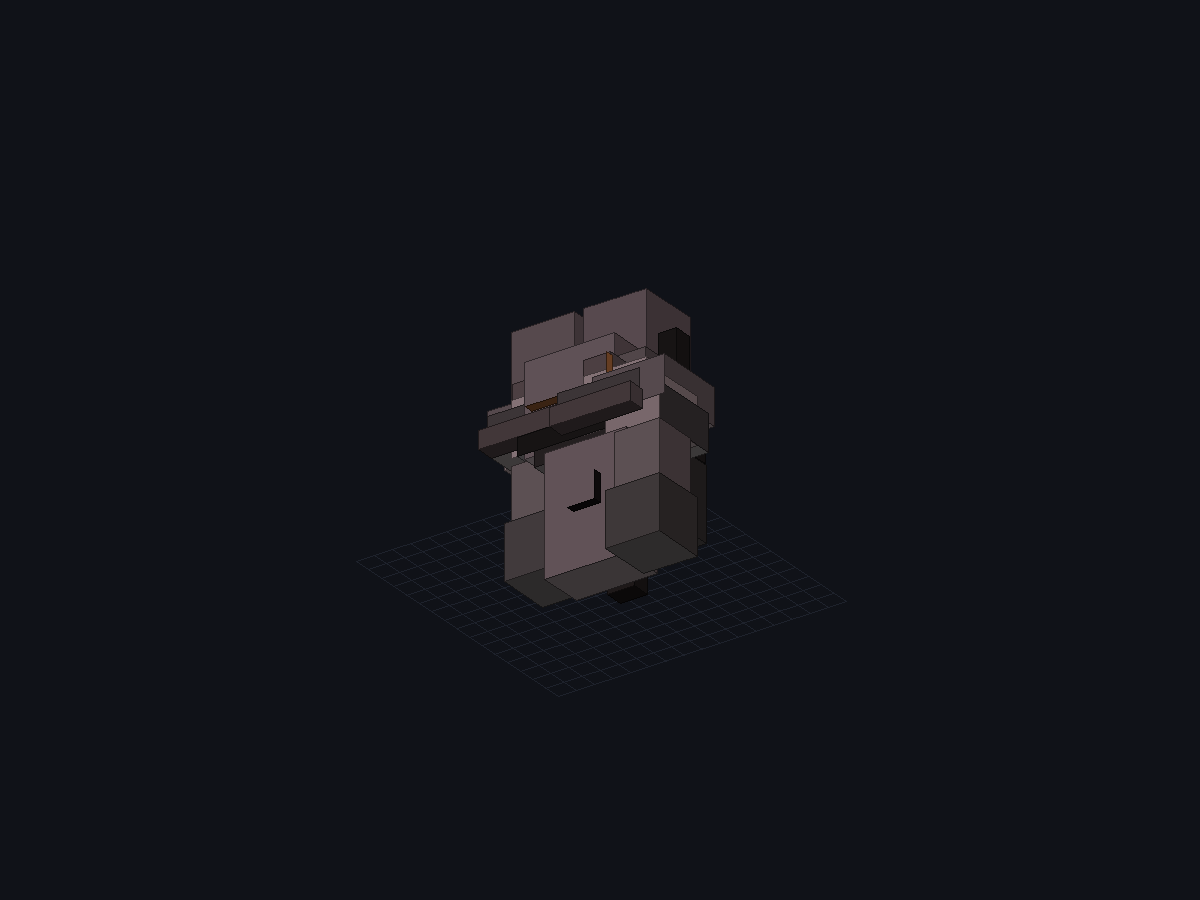
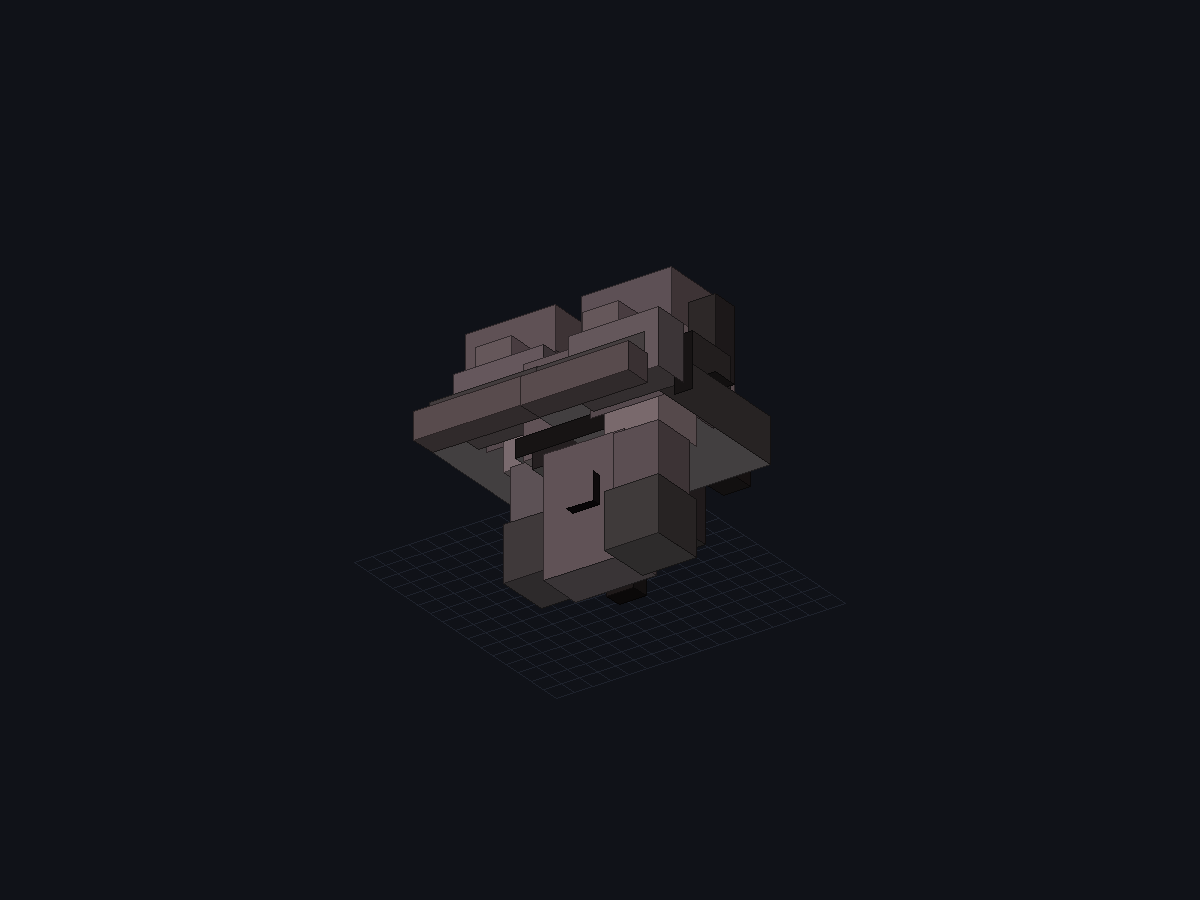
COLOSSAL legs v3: 10px thighs/shins, 12x5x20px boots (1.25 block feet), side thrusters, ankle guards; CI scale-comparison shot

Changed region(s): [[0.3392, 0.28, 0.6475, 0.56], [0.4933, 0.5911, 0.5242, 0.6222], [0.4933, 0.5289, 0.5242, 0.56]]

diff --git a/src/main/java/com/octoarms/client/model/ArmorSpecs.java b/src/main/java/com/octoarms/client/model/ArmorSpecs.java
@@ -69,24 +69,24 @@ public final class ArmorSpecs {
             new Box("left_arm", 48, 22, 6F, 5F, 6F, -2.4F, -2.8F, -3.0F),
             new Box("left_arm", 74, 22, 5F, 7F, 5F, -1.8F, 1.6F, -2.5F),
             new Box("left_arm", 96, 22, 6F, 6F, 6F, -2.4F, 7.6F, -3.0F),
-            new Box("right_leg", 122, 22, 7F, 8F, 7F, -5.6F, -1.5F, -3.5F),
-            new Box("left_leg", 152, 22, 7F, 8F, 7F, -1.4F, -1.5F, -3.5F),
-            new Box("right_leg", 182, 22, 3F, 3F, 3F, -4.5F, 4.8F, -5.0F),
-            new Box("left_leg", 196, 22, 3F, 3F, 3F, -0.4F, 4.8F, -5.0F),
-            new Box("right_leg", 210, 22, 7F, 6F, 7F, -5.6F, 5.5F, -3.5F),
-            new Box("left_leg", 0, 39, 7F, 6F, 7F, -1.4F, 5.5F, -3.5F),
-            new Box("right_leg", 30, 39, 1F, 4F, 4F, -6.4F, 6.0F, -2.0F),
-            new Box("left_leg", 42, 39, 1F, 4F, 4F, 5.4F, 6.0F, -2.0F),
-            new Box("right_leg", 54, 39, 9F, 4F, 11F, -6.5F, 8.0F, -6.0F),
-            new Box("left_leg", 96, 39, 9F, 4F, 11F, -2.5F, 8.0F, -6.0F),
-            new Box("right_leg", 138, 39, 9F, 2F, 2F, -6.5F, 10.0F, -7.4F),
-            new Box("left_leg", 162, 39, 9F, 2F, 2F, -2.5F, 10.0F, -7.4F),
-            new Box("right_leg", 186, 39, 2F, 2F, 2F, -5.0F, 10.0F, 4.6F),
-            new Box("left_leg", 196, 39, 2F, 2F, 2F, 3.0F, 10.0F, 4.6F),
-            new Box("head", 206, 39, 1F, 4F, 1F, -6.4F, -12.0F, 1.0F),
-            new Box("head", 212, 39, 1F, 1F, 1F, -6.4F, -12.6F, 1.0F),
-            new Box("body", 218, 39, 2F, 2F, 3F, -5.6F, 3.0F, -3.6F),
-            new Box("body", 230, 39, 2F, 2F, 3F, 3.6F, 3.0F, -3.6F)
+            new Box("right_leg", 122, 22, 10F, 10F, 10F, -9.5F, -2.0F, -5.0F),
+            new Box("left_leg", 164, 22, 10F, 10F, 10F, -0.5F, -2.0F, -5.0F),
+            new Box("right_leg", 206, 22, 4F, 4F, 4F, -7.0F, 1.0F, -7.0F),
+            new Box("left_leg", 224, 22, 4F, 4F, 4F, 1.1F, 1.0F, -7.0F),
+            new Box("right_leg", 0, 44, 10F, 6F, 10F, -9.5F, 3.0F, -5.0F),
+            new Box("left_leg", 42, 44, 10F, 6F, 10F, -0.5F, 3.0F, -5.0F),
+            new Box("right_leg", 84, 44, 2F, 6F, 6F, -10.5F, 4.0F, -3.0F),
+            new Box("left_leg", 102, 44, 2F, 6F, 6F, 8.5F, 4.0F, -3.0F),
+            new Box("right_leg", 120, 44, 12F, 5F, 20F, -10.0F, 7.0F, -10.0F),
+            new Box("left_leg", 186, 44, 12F, 5F, 20F, -2.0F, 7.0F, -10.0F),
+            new Box("right_leg", 0, 71, 12F, 3F, 3F, -10.0F, 9.0F, -12.5F),
+            new Box("left_leg", 32, 71, 12F, 3F, 3F, -2.0F, 9.0F, -12.5F),
+            new Box("right_leg", 64, 71, 3F, 3F, 3F, -8.0F, 9.0F, 9.5F),
+            new Box("left_leg", 78, 71, 3F, 3F, 3F, 3.1F, 9.0F, 9.5F),
+            new Box("head", 92, 71, 1F, 4F, 1F, -6.4F, -12.0F, 1.0F),
+            new Box("head", 98, 71, 1F, 1F, 1F, -6.4F, -12.6F, 1.0F),
+            new Box("body", 104, 71, 2F, 2F, 3F, -5.6F, 3.0F, -3.6F),
+            new Box("body", 116, 71, 2F, 2F, 3F, 3.6F, 3.0F, -3.6F)
         });
         SUITS.put("iron_mech", new Box[]{
             new Box("hat", 0, 0, 0F, 0F, 0F, 0.0F, 0.0F, 0.0F),
@@ -104,25 +104,25 @@ public final class ArmorSpecs {
             new Box("left_arm", 48, 22, 6F, 5F, 6F, -2.4F, -2.8F, -3.0F),
             new Box("left_arm", 74, 22, 5F, 7F, 5F, -1.8F, 1.6F, -2.5F),
             new Box("left_arm", 96, 22, 6F, 6F, 6F, -2.4F, 7.6F, -3.0F),
-            new Box("right_leg", 122, 22, 7F, 8F, 7F, -5.6F, -1.5F, -3.5F),
-            new Box("left_leg", 152, 22, 7F, 8F, 7F, -1.4F, -1.5F, -3.5F),
-            new Box("right_leg", 182, 22, 3F, 3F, 3F, -4.5F, 4.8F, -5.0F),
-            new Box("left_leg", 196, 22, 3F, 3F, 3F, -0.4F, 4.8F, -5.0F),
-            new Box("right_leg", 210, 22, 7F, 6F, 7F, -5.6F, 5.5F, -3.5F),
-            new Box("left_leg", 0, 39, 7F, 6F, 7F, -1.4F, 5.5F, -3.5F),
-            new Box("right_leg", 30, 39, 1F, 4F, 4F, -6.4F, 6.0F, -2.0F),
-            new Box("left_leg", 42, 39, 1F, 4F, 4F, 5.4F, 6.0F, -2.0F),
-            new Box("right_leg", 54, 39, 9F, 4F, 11F, -6.5F, 8.0F, -6.0F),
-            new Box("left_leg", 96, 39, 9F, 4F, 11F, -2.5F, 8.0F, -6.0F),
-            new Box("right_leg", 138, 39, 9F, 2F, 2F, -6.5F, 10.0F, -7.4F),
-            new Box("left_leg", 162, 39, 9F, 2F, 2F, -2.5F, 10.0F, -7.4F),
-            new Box("right_leg", 186, 39, 2F, 2F, 2F, -5.0F, 10.0F, 4.6F),
-            new Box("left_leg", 196, 39, 2F, 2F, 2F, 3.0F, 10.0F, 4.6F),
-            new Box("right_arm", 206, 39, 7F, 3F, 7F, -4.2F, -3.4F, -3.5F),
-            new Box("left_arm", 0, 56, 7F, 3F, 7F, -2.8F, -3.4F, -3.5F),
-            new Box("body", 30, 56, 9F, 2F, 2F, -4.5F, 6.4F, -3.4F),
-            new Box("body", 54, 56, 4F, 6F, 3F, -6.6F, 1.0F, 2.8F),
-            new Box("body", 70, 56, 4F, 6F, 3F, 2.6F, 1.0F, 2.8F)
+            new Box("right_leg", 122, 22, 10F, 10F, 10F, -9.5F, -2.0F, -5.0F),
+            new Box("left_leg", 164, 22, 10F, 10F, 10F, -0.5F, -2.0F, -5.0F),
+            new Box("right_leg", 206, 22, 4F, 4F, 4F, -7.0F, 1.0F, -7.0F),
+            new Box("left_leg", 224, 22, 4F, 4F, 4F, 1.1F, 1.0F, -7.0F),
+            new Box("right_leg", 0, 44, 10F, 6F, 10F, -9.5F, 3.0F, -5.0F),
+            new Box("left_leg", 42, 44, 10F, 6F, 10F, -0.5F, 3.0F, -5.0F),
+            new Box("right_leg", 84, 44, 2F, 6F, 6F, -10.5F, 4.0F, -3.0F),
+            new Box("left_leg", 102, 44, 2F, 6F, 6F, 8.5F, 4.0F, -3.0F),
+            new Box("right_leg", 120, 44, 12F, 5F, 20F, -10.0F, 7.0F, -10.0F),
+            new Box("left_leg", 186, 44, 12F, 5F, 20F, -2.0F, 7.0F, -10.0F),
+            new Box("right_leg", 0, 71, 12F, 3F, 3F, -10.0F, 9.0F, -12.5F),
+            new Box("left_leg", 32, 71, 12F, 3F, 3F, -2.0F, 9.0F, -12.5F),
+            new Box("right_leg", 64, 71, 3F, 3F, 3F, -8.0F, 9.0F, 9.5F),
+            new Box("left_leg", 78, 71, 3F, 3F, 3F, 3.1F, 9.0F, 9.5F),
+            new Box("right_arm", 92, 71, 7F, 3F, 7F, -4.2F, -3.4F, -3.5F),
+            new Box("left_arm", 122, 71, 7F, 3F, 7F, -2.8F, -3.4F, -3.5F),
+            new Box("body", 152, 71, 9F, 2F, 2F, -4.5F, 6.4F, -3.4F),
+            new Box("body", 176, 71, 4F, 6F, 3F, -6.6F, 1.0F, 2.8F),
+            new Box("body", 192, 71, 4F, 6F, 3F, 2.6F, 1.0F, 2.8F)
         });
         SUITS.put("gold_mech", new Box[]{
             new Box("hat", 0, 0, 0F, 0F, 0F, 0.0F, 0.0F, 0.0F),
@@ -140,25 +140,25 @@ public final class ArmorSpecs {
             new Box("left_arm", 48, 22, 6F, 5F, 6F, -2.4F, -2.8F, -3.0F),
             new Box("left_arm", 74, 22, 5F, 7F, 5F, -1.8F, 1.6F, -2.5F),
             new Box("left_arm", 96, 22, 6F, 6F, 6F, -2.4F, 7.6F, -3.0F),
-            new Box("right_leg", 122, 22, 7F, 8F, 7F, -5.6F, -1.5F, -3.5F),
-            new Box("left_leg", 152, 22, 7F, 8F, 7F, -1.4F, -1.5F, -3.5F),
-            new Box("right_leg", 182, 22, 3F, 3F, 3F, -4.5F, 4.8F, -5.0F),
-            new Box("left_leg", 196, 22, 3F, 3F, 3F, -0.4F, 4.8F, -5.0F),
-            new Box("right_leg", 210, 22, 7F, 6F, 7F, -5.6F, 5.5F, -3.5F),
-            new Box("left_leg", 0, 39, 7F, 6F, 7F, -1.4F, 5.5F, -3.5F),
-            new Box("right_leg", 30, 39, 1F, 4F, 4F, -6.4F, 6.0F, -2.0F),
-            new Box("left_leg", 42, 39, 1F, 4F, 4F, 5.4F, 6.0F, -2.0F),
-            new Box("right_leg", 54, 39, 9F, 4F, 11F, -6.5F, 8.0F, -6.0F),
-            new Box("left_leg", 96, 39, 9F, 4F, 11F, -2.5F, 8.0F, -6.0F),
-            new Box("right_leg", 138, 39, 9F, 2F, 2F, -6.5F, 10.0F, -7.4F),
-            new Box("left_leg", 162, 39, 9F, 2F, 2F, -2.5F, 10.0F, -7.4F),
-            new Box("right_leg", 186, 39, 2F, 2F, 2F, -5.0F, 10.0F, 4.6F),
-            new Box("left_leg", 196, 39, 2F, 2F, 2F, 3.0F, 10.0F, 4.6F),
-            new Box("head", 206, 39, 2F, 4F, 8F, -1.0F, -12.4F, -3.0F),
-            new Box("head", 228, 39, 2F, 1F, 8F, -1.0F, -13.0F, -3.0F),
-            new Box("body", 0, 56, 11F, 4F, 6F, -5.5F, 9.0F, -3.0F),
-            new Box("right_arm", 36, 56, 2F, 6F, 2F, -4.4F, 2.0F, -3.4F),
-            new Box("left_arm", 46, 56, 2F, 6F, 2F, 2.4F, 2.0F, -3.4F)
+            new Box("right_leg", 122, 22, 10F, 10F, 10F, -9.5F, -2.0F, -5.0F),
+            new Box("left_leg", 164, 22, 10F, 10F, 10F, -0.5F, -2.0F, -5.0F),
+            new Box("right_leg", 206, 22, 4F, 4F, 4F, -7.0F, 1.0F, -7.0F),
+            new Box("left_leg", 224, 22, 4F, 4F, 4F, 1.1F, 1.0F, -7.0F),
+            new Box("right_leg", 0, 44, 10F, 6F, 10F, -9.5F, 3.0F, -5.0F),
+            new Box("left_leg", 42, 44, 10F, 6F, 10F, -0.5F, 3.0F, -5.0F),
+            new Box("right_leg", 84, 44, 2F, 6F, 6F, -10.5F, 4.0F, -3.0F),
+            new Box("left_leg", 102, 44, 2F, 6F, 6F, 8.5F, 4.0F, -3.0F),
+            new Box("right_leg", 120, 44, 12F, 5F, 20F, -10.0F, 7.0F, -10.0F),
+            new Box("left_leg", 186, 44, 12F, 5F, 20F, -2.0F, 7.0F, -10.0F),
+            new Box("right_leg", 0, 71, 12F, 3F, 3F, -10.0F, 9.0F, -12.5F),
+            new Box("left_leg", 32, 71, 12F, 3F, 3F, -2.0F, 9.0F, -12.5F),
+            new Box("right_leg", 64, 71, 3F, 3F, 3F, -8.0F, 9.0F, 9.5F),
+            new Box("left_leg", 78, 71, 3F, 3F, 3F, 3.1F, 9.0F, 9.5F),
+            new Box("head", 92, 71, 2F, 4F, 8F, -1.0F, -12.4F, -3.0F),
+            new Box("head", 114, 71, 2F, 1F, 8F, -1.0F, -13.0F, -3.0F),
+            new Box("body", 136, 71, 11F, 4F, 6F, -5.5F, 9.0F, -3.0F),
+            new Box("right_arm", 172, 71, 2F, 6F, 2F, -4.4F, 2.0F, -3.4F),
+            new Box("left_arm", 182, 71, 2F, 6F, 2F, 2.4F, 2.0F, -3.4F)
         });
         SUITS.put("diamond_mech", new Box[]{
             new Box("hat", 0, 0, 0F, 0F, 0F, 0.0F, 0.0F, 0.0F),
@@ -176,25 +176,25 @@ public final class ArmorSpecs {
             new Box("left_arm", 48, 22, 6F, 5F, 6F, -2.4F, -2.8F, -3.0F),
             new Box("left_arm", 74, 22, 5F, 7F, 5F, -1.8F, 1.6F, -2.5F),
             new Box("left_arm", 96, 22, 6F, 6F, 6F, -2.4F, 7.6F, -3.0F),
-            new Box("right_leg", 122, 22, 7F, 8F, 7F, -5.6F, -1.5F, -3.5F),
-            new Box("left_leg", 152, 22, 7F, 8F, 7F, -1.4F, -1.5F, -3.5F),
-            new Box("right_leg", 182, 22, 3F, 3F, 3F, -4.5F, 4.8F, -5.0F),
-            new Box("left_leg", 196, 22, 3F, 3F, 3F, -0.4F, 4.8F, -5.0F),
-            new Box("right_leg", 210, 22, 7F, 6F, 7F, -5.6F, 5.5F, -3.5F),
-            new Box("left_leg", 0, 39, 7F, 6F, 7F, -1.4F, 5.5F, -3.5F),
-            new Box("right_leg", 30, 39, 1F, 4F, 4F, -6.4F, 6.0F, -2.0F),
-            new Box("left_leg", 42, 39, 1F, 4F, 4F, 5.4F, 6.0F, -2.0F),
-            new Box("right_leg", 54, 39, 9F, 4F, 11F, -6.5F, 8.0F, -6.0F),
-            new Box("left_leg", 96, 39, 9F, 4F, 11F, -2.5F, 8.0F, -6.0F),
-            new Box("right_leg", 138, 39, 9F, 2F, 2F, -6.5F, 10.0F, -7.4F),
-            new Box("left_leg", 162, 39, 9F, 2F, 2F, -2.5F, 10.0F, -7.4F),
-            new Box("right_leg", 186, 39, 2F, 2F, 2F, -5.0F, 10.0F, 4.6F),
-            new Box("left_leg", 196, 39, 2F, 2F, 2F, 3.0F, 10.0F, 4.6F),
-            new Box("body", 206, 39, 2F, 9F, 5F, -7.2F, -1.0F, 2.6F),
-            new Box("body", 222, 39, 2F, 9F, 5F, 5.2F, -1.0F, 2.6F),
-            new Box("body", 238, 39, 3F, 3F, 3F, -5.4F, 7.0F, 3.4F),
-            new Box("body", 0, 56, 3F, 3F, 3F, 2.4F, 7.0F, 3.4F),
-            new Box("head", 14, 56, 10F, 1F, 2F, -5.0F, -9.6F, -1.0F)
+            new Box("right_leg", 122, 22, 10F, 10F, 10F, -9.5F, -2.0F, -5.0F),
+            new Box("left_leg", 164, 22, 10F, 10F, 10F, -0.5F, -2.0F, -5.0F),
+            new Box("right_leg", 206, 22, 4F, 4F, 4F, -7.0F, 1.0F, -7.0F),
+            new Box("left_leg", 224, 22, 4F, 4F, 4F, 1.1F, 1.0F, -7.0F),
+            new Box("right_leg", 0, 44, 10F, 6F, 10F, -9.5F, 3.0F, -5.0F),
+            new Box("left_leg", 42, 44, 10F, 6F, 10F, -0.5F, 3.0F, -5.0F),
+            new Box("right_leg", 84, 44, 2F, 6F, 6F, -10.5F, 4.0F, -3.0F),
+            new Box("left_leg", 102, 44, 2F, 6F, 6F, 8.5F, 4.0F, -3.0F),
+            new Box("right_leg", 120, 44, 12F, 5F, 20F, -10.0F, 7.0F, -10.0F),
+            new Box("left_leg", 186, 44, 12F, 5F, 20F, -2.0F, 7.0F, -10.0F),
+            new Box("right_leg", 0, 71, 12F, 3F, 3F, -10.0F, 9.0F, -12.5F),
+            new Box("left_leg", 32, 71, 12F, 3F, 3F, -2.0F, 9.0F, -12.5F),
+            new Box("right_leg", 64, 71, 3F, 3F, 3F, -8.0F, 9.0F, 9.5F),
+            new Box("left_leg", 78, 71, 3F, 3F, 3F, 3.1F, 9.0F, 9.5F),
+            new Box("body", 92, 71, 2F, 9F, 5F, -7.2F, -1.0F, 2.6F),
+            new Box("body", 108, 71, 2F, 9F, 5F, 5.2F, -1.0F, 2.6F),
+            new Box("body", 124, 71, 3F, 3F, 3F, -5.4F, 7.0F, 3.4F),
+            new Box("body", 138, 71, 3F, 3F, 3F, 2.4F, 7.0F, 3.4F),
+            new Box("head", 152, 71, 10F, 1F, 2F, -5.0F, -9.6F, -1.0F)
         });
         SUITS.put("netherite_mech", new Box[]{
             new Box("hat", 0, 0, 0F, 0F, 0F, 0.0F, 0.0F, 0.0F),
@@ -212,32 +212,32 @@ public final class ArmorSpecs {
             new Box("left_arm", 48, 22, 6F, 5F, 6F, -2.4F, -2.8F, -3.0F),
             new Box("left_arm", 74, 22, 5F, 7F, 5F, -1.8F, 1.6F, -2.5F),
             new Box("left_arm", 96, 22, 6F, 6F, 6F, -2.4F, 7.6F, -3.0F),
-            new Box("right_leg", 122, 22, 7F, 8F, 7F, -5.6F, -1.5F, -3.5F),
-            new Box("left_leg", 152, 22, 7F, 8F, 7F, -1.4F, -1.5F, -3.5F),
-            new Box("right_leg", 182, 22, 3F, 3F, 3F, -4.5F, 4.8F, -5.0F),
-            new Box("left_leg", 196, 22, 3F, 3F, 3F, -0.4F, 4.8F, -5.0F),
-            new Box("right_leg", 210, 22, 7F, 6F, 7F, -5.6F, 5.5F, -3.5F),
-            new Box("left_leg", 0, 39, 7F, 6F, 7F, -1.4F, 5.5F, -3.5F),
-            new Box("right_leg", 30, 39, 1F, 4F, 4F, -6.4F, 6.0F, -2.0F),
-            new Box("left_leg", 42, 39, 1F, 4F, 4F, 5.4F, 6.0F, -2.0F),
-            new Box("right_leg", 54, 39, 9F, 4F, 11F, -6.5F, 8.0F, -6.0F),
-            new Box("left_leg", 96, 39, 9F, 4F, 11F, -2.5F, 8.0F, -6.0F),
-            new Box("right_leg", 138, 39, 9F, 2F, 2F, -6.5F, 10.0F, -7.4F),
-            new Box("left_leg", 162, 39, 9F, 2F, 2F, -2.5F, 10.0F, -7.4F),
-            new Box("right_leg", 186, 39, 2F, 2F, 2F, -5.0F, 10.0F, 4.6F),
-            new Box("left_leg", 196, 39, 2F, 2F, 2F, 3.0F, 10.0F, 4.6F),
-            new Box("head", 206, 39, 2F, 4F, 2F, -5.6F, -11.4F, -3.0F),
-            new Box("head", 216, 39, 2F, 4F, 2F, 3.6F, -11.4F, -3.0F),
-            new Box("right_arm", 0, 56, 8F, 4F, 8F, -4.8F, -3.8F, -4.0F),
-            new Box("left_arm", 34, 56, 8F, 4F, 8F, -3.2F, -3.8F, -4.0F),
-            new Box("body", 68, 56, 4F, 8F, 4F, -6.8F, 0.0F, 3.0F),
-            new Box("body", 86, 56, 4F, 8F, 4F, 2.8F, 0.0F, 3.0F),
-            new Box("body", 104, 56, 3F, 2F, 3F, -6.2F, -2.4F, 3.0F),
-            new Box("body", 118, 56, 3F, 2F, 3F, 3.2F, -2.4F, 3.0F),
-            new Box("right_leg", 132, 56, 6F, 4F, 6F, -5.4F, 4.4F, -3.4F),
-            new Box("left_leg", 158, 56, 6F, 4F, 6F, -0.6F, 4.4F, -3.4F),
-            new Box("right_leg", 184, 56, 2F, 6F, 2F, -7.2F, 2.0F, -1.0F),
-            new Box("left_leg", 194, 56, 2F, 6F, 2F, 5.2F, 2.0F, -1.0F)
+            new Box("right_leg", 122, 22, 10F, 10F, 10F, -9.5F, -2.0F, -5.0F),
+            new Box("left_leg", 164, 22, 10F, 10F, 10F, -0.5F, -2.0F, -5.0F),
+            new Box("right_leg", 206, 22, 4F, 4F, 4F, -7.0F, 1.0F, -7.0F),
+            new Box("left_leg", 224, 22, 4F, 4F, 4F, 1.1F, 1.0F, -7.0F),
+            new Box("right_leg", 0, 44, 10F, 6F, 10F, -9.5F, 3.0F, -5.0F),
+            new Box("left_leg", 42, 44, 10F, 6F, 10F, -0.5F, 3.0F, -5.0F),
+            new Box("right_leg", 84, 44, 2F, 6F, 6F, -10.5F, 4.0F, -3.0F),
+            new Box("left_leg", 102, 44, 2F, 6F, 6F, 8.5F, 4.0F, -3.0F),
+            new Box("right_leg", 120, 44, 12F, 5F, 20F, -10.0F, 7.0F, -10.0F),
+            new Box("left_leg", 186, 44, 12F, 5F, 20F, -2.0F, 7.0F, -10.0F),
+            new Box("right_leg", 0, 71, 12F, 3F, 3F, -10.0F, 9.0F, -12.5F),
+            new Box("left_leg", 32, 71, 12F, 3F, 3F, -2.0F, 9.0F, -12.5F),
+            new Box("right_leg", 64, 71, 3F, 3F, 3F, -8.0F, 9.0F, 9.5F),
+            new Box("left_leg", 78, 71, 3F, 3F, 3F, 3.1F, 9.0F, 9.5F),
+            new Box("head", 92, 71, 2F, 4F, 2F, -5.6F, -11.4F, -3.0F),
+            new Box("head", 102, 71, 2F, 4F, 2F, 3.6F, -11.4F, -3.0F),
+            new Box("right_arm", 112, 71, 8F, 4F, 8F, -4.8F, -3.8F, -4.0F),
+            new Box("left_arm", 146, 71, 8F, 4F, 8F, -3.2F, -3.8F, -4.0F),
+            new Box("body", 180, 71, 4F, 8F, 4F, -6.8F, 0.0F, 3.0F),
+            new Box("body", 198, 71, 4F, 8F, 4F, 2.8F, 0.0F, 3.0F),
+            new Box("body", 216, 71, 3F, 2F, 3F, -6.2F, -2.4F, 3.0F),
+            new Box("body", 230, 71, 3F, 2F, 3F, 3.2F, -2.4F, 3.0F),
+            new Box("right_leg", 0, 85, 10F, 6F, 4F, -9.5F, 3.0F, -7.0F),
+            new Box("left_leg", 30, 85, 10F, 6F, 4F, -0.5F, 3.0F, -7.0F),
+            new Box("right_leg", 60, 85, 3F, 8F, 3F, -12.0F, 0.0F, -1.5F),
+            new Box("left_leg", 74, 85, 3F, 8F, 3F, 9.0F, 0.0F, -1.5F)
         });
         SUITS.put("spider_mech", new Box[]{
             new Box("hat", 0, 0, 0F, 0F, 0F, 0.0F, 0.0F, 0.0F),
@@ -255,39 +255,39 @@ public final class ArmorSpecs {
             new Box("left_arm", 48, 22, 6F, 5F, 6F, -2.4F, -2.8F, -3.0F),
             new Box("left_arm", 74, 22, 5F, 7F, 5F, -1.8F, 1.6F, -2.5F),
             new Box("left_arm", 96, 22, 6F, 6F, 6F, -2.4F, 7.6F, -3.0F),
-            new Box("right_leg", 122, 22, 7F, 8F, 7F, -5.6F, -1.5F, -3.5F),
-            new Box("left_leg", 152, 22, 7F, 8F, 7F, -1.4F, -1.5F, -3.5F),
-            new Box("right_leg", 182, 22, 3F, 3F, 3F, -4.5F, 4.8F, -5.0F),
-            new Box("left_leg", 196, 22, 3F, 3F, 3F, -0.4F, 4.8F, -5.0F),
-            new Box("right_leg", 210, 22, 7F, 6F, 7F, -5.6F, 5.5F, -3.5F),
-            new Box("left_leg", 0, 39, 7F, 6F, 7F, -1.4F, 5.5F, -3.5F),
-            new Box("right_leg", 30, 39, 1F, 4F, 4F, -6.4F, 6.0F, -2.0F),
-            new Box("left_leg", 42, 39, 1F, 4F, 4F, 5.4F, 6.0F, -2.0F),
-            new Box("right_leg", 54, 39, 9F, 4F, 11F, -6.5F, 8.0F, -6.0F),
-            new Box("left_leg", 96, 39, 9F, 4F, 11F, -2.5F, 8.0F, -6.0F),
-            new Box("right_leg", 138, 39, 9F, 2F, 2F, -6.5F, 10.0F, -7.4F),
-            new Box("left_leg", 162, 39, 9F, 2F, 2F, -2.5F, 10.0F, -7.4F),
-            new Box("right_leg", 186, 39, 2F, 2F, 2F, -5.0F, 10.0F, 4.6F),
-            new Box("left_leg", 196, 39, 2F, 2F, 2F, 3.0F, 10.0F, 4.6F),
-            new Box("head", 206, 39, 9F, 3F, 3F, -4.5F, -2.6F, -5.6F),
-            new Box("head", 232, 39, 2F, 4F, 2F, -3.6F, -1.0F, -6.0F),
-            new Box("head", 242, 39, 2F, 4F, 2F, 1.6F, -1.0F, -6.0F),
-            new Box("head", 252, 39, 1F, 1F, 1F, -3.4F, -7.4F, -5.4F),
-            new Box("head", 0, 56, 1F, 1F, 1F, -1.4F, -7.4F, -5.4F),
-            new Box("head", 6, 56, 1F, 1F, 1F, 0.6F, -7.4F, -5.4F),
-            new Box("head", 12, 56, 1F, 1F, 1F, 2.6F, -7.4F, -5.4F),
-            new Box("body", 18, 56, 11F, 8F, 6F, -5.5F, -1.0F, 2.2F),
-            new Box("body", 54, 56, 9F, 6F, 5F, -4.5F, 0.0F, 6.0F),
-            new Box("body", 84, 56, 2F, 2F, 2F, -5.6F, 2.0F, 10.2F),
-            new Box("body", 94, 56, 2F, 2F, 2F, 3.6F, 2.0F, 10.2F),
-            new Box("body", 104, 56, 3F, 3F, 3F, -6.6F, 3.0F, 2.6F),
-            new Box("body", 118, 56, 3F, 3F, 3F, 3.6F, 3.0F, 2.6F),
-            new Box("right_arm", 132, 56, 5F, 5F, 5F, -3.4F, 8.0F, -2.8F),
-            new Box("left_arm", 154, 56, 5F, 5F, 5F, -1.6F, 8.0F, -2.8F),
-            new Box("right_leg", 176, 56, 2F, 6F, 2F, -7.2F, 1.6F, -1.0F),
-            new Box("left_leg", 186, 56, 2F, 6F, 2F, 5.2F, 1.6F, -1.0F),
-            new Box("right_leg", 196, 56, 8F, 2F, 8F, -6.4F, 7.6F, -4.4F),
-            new Box("left_leg", 0, 72, 8F, 2F, 8F, -1.6F, 7.6F, -4.4F)
+            new Box("right_leg", 122, 22, 10F, 10F, 10F, -9.5F, -2.0F, -5.0F),
+            new Box("left_leg", 164, 22, 10F, 10F, 10F, -0.5F, -2.0F, -5.0F),
+            new Box("right_leg", 206, 22, 4F, 4F, 4F, -7.0F, 1.0F, -7.0F),
+            new Box("left_leg", 224, 22, 4F, 4F, 4F, 1.1F, 1.0F, -7.0F),
+            new Box("right_leg", 0, 44, 10F, 6F, 10F, -9.5F, 3.0F, -5.0F),
+            new Box("left_leg", 42, 44, 10F, 6F, 10F, -0.5F, 3.0F, -5.0F),
+            new Box("right_leg", 84, 44, 2F, 6F, 6F, -10.5F, 4.0F, -3.0F),
+            new Box("left_leg", 102, 44, 2F, 6F, 6F, 8.5F, 4.0F, -3.0F),
+            new Box("right_leg", 120, 44, 12F, 5F, 20F, -10.0F, 7.0F, -10.0F),
+            new Box("left_leg", 186, 44, 12F, 5F, 20F, -2.0F, 7.0F, -10.0F),
+            new Box("right_leg", 0, 71, 12F, 3F, 3F, -10.0F, 9.0F, -12.5F),
+            new Box("left_leg", 32, 71, 12F, 3F, 3F, -2.0F, 9.0F, -12.5F),
+            new Box("right_leg", 64, 71, 3F, 3F, 3F, -8.0F, 9.0F, 9.5F),
+            new Box("left_leg", 78, 71, 3F, 3F, 3F, 3.1F, 9.0F, 9.5F),
+            new Box("head", 92, 71, 9F, 3F, 3F, -4.5F, -2.6F, -5.6F),
+            new Box("head", 118, 71, 2F, 4F, 2F, -3.6F, -1.0F, -6.0F),
+            new Box("head", 128, 71, 2F, 4F, 2F, 1.6F, -1.0F, -6.0F),
+            new Box("head", 138, 71, 1F, 1F, 1F, -3.4F, -7.4F, -5.4F),
+            new Box("head", 144, 71, 1F, 1F, 1F, -1.4F, -7.4F, -5.4F),
+            new Box("head", 150, 71, 1F, 1F, 1F, 0.6F, -7.4F, -5.4F),
+            new Box("head", 156, 71, 1F, 1F, 1F, 2.6F, -7.4F, -5.4F),
+            new Box("body", 162, 71, 11F, 8F, 6F, -5.5F, -1.0F, 2.2F),
+            new Box("body", 198, 71, 9F, 6F, 5F, -4.5F, 0.0F, 6.0F),
+            new Box("body", 228, 71, 2F, 2F, 2F, -5.6F, 2.0F, 10.2F),
+            new Box("body", 238, 71, 2F, 2F, 2F, 3.6F, 2.0F, 10.2F),
+            new Box("body", 0, 87, 3F, 3F, 3F, -6.6F, 3.0F, 2.6F),
+            new Box("body", 14, 87, 3F, 3F, 3F, 3.6F, 3.0F, 2.6F),
+            new Box("right_arm", 28, 87, 5F, 5F, 5F, -3.4F, 8.0F, -2.8F),
+            new Box("left_arm", 50, 87, 5F, 5F, 5F, -1.6F, 8.0F, -2.8F),
+            new Box("right_leg", 72, 87, 3F, 8F, 3F, -12.0F, -0.4F, -1.5F),
+            new Box("left_leg", 86, 87, 3F, 8F, 3F, 9.0F, -0.4F, -1.5F),
+            new Box("right_leg", 100, 87, 12F, 3F, 12F, -10.5F, 6.5F, -6.0F),
+            new Box("left_leg", 150, 87, 12F, 3F, 12F, -1.5F, 6.5F, -6.0F)
         });
     }
 

diff --git a/tools/gen_armor.py b/tools/gen_armor.py
@@ -56,20 +56,21 @@ def base_boxes(defl=0.0):
         box("left_arm", (5, 7, 5), (-1.8, 1.6, -2.5), "plate"),
         box("left_arm", (6, 6, 6), (-2.4, 7.6, -3.0), "dark"),
         # legs
-        box("right_leg", (7, 8, 7), (-5.6, -1.5, -3.5), "plate"),      # huge thigh, wide stance
-        box("left_leg", (7, 8, 7), (-1.4, -1.5, -3.5), "plate"),
-        box("right_leg", (3, 3, 3), (-4.5, 4.8, -5.0), "accent"),      # knee piston
-        box("left_leg", (3, 3, 3), (-0.4, 4.8, -5.0), "accent"),
-        box("right_leg", (7, 6, 7), (-5.6, 5.5, -3.5), "accent"),      # shin guard
-        box("left_leg", (7, 6, 7), (-1.4, 5.5, -3.5), "accent"),
-        box("right_leg", (1, 4, 4), (-6.4, 6.0, -2.0), "dark"),        # shin vent out
-        box("left_leg", (1, 4, 4), (5.4, 6.0, -2.0), "dark"),
-        box("right_leg", (9, 4, 11), (-6.5, 8.0, -6.0), "dark"),       # massive boot
-        box("left_leg", (9, 4, 11), (-2.5, 8.0, -6.0), "dark"),
-        box("right_leg", (9, 2, 2), (-6.5, 10.0, -7.4), "accent"),     # toe plate
-        box("left_leg", (9, 2, 2), (-2.5, 10.0, -7.4), "accent"),
-        box("right_leg", (2, 2, 2), (-5.0, 10.0, 4.6), "dark"),        # heel actuator
-        box("left_leg", (2, 2, 2), (3.0, 10.0, 4.6), "dark"),
+        # COLOSSAL servo legs: ~0.6 block thick limbs, 1.25 block long feet
+        box("right_leg", (10, 10, 10), (-9.5, -2.0, -5.0), "plate"),   # colossal thigh
+        box("left_leg", (10, 10, 10), (-0.5, -2.0, -5.0), "plate"),
+        box("right_leg", (4, 4, 4), (-7.0, 1.0, -7.0), "accent"),      # knee piston
+        box("left_leg", (4, 4, 4), (1.1, 1.0, -7.0), "accent"),
+        box("right_leg", (10, 6, 10), (-9.5, 3.0, -5.0), "accent"),    # shin guard
+        box("left_leg", (10, 6, 10), (-0.5, 3.0, -5.0), "accent"),
+        box("right_leg", (2, 6, 6), (-10.5, 4.0, -3.0), "dark"),       # side thruster out
+        box("left_leg", (2, 6, 6), (8.5, 4.0, -3.0), "dark"),
+        box("right_leg", (12, 5, 20), (-10.0, 7.0, -10.0), "dark"),    # colossal boot
+        box("left_leg", (12, 5, 20), (-2.0, 7.0, -10.0), "dark"),
+        box("right_leg", (12, 3, 3), (-10.0, 9.0, -12.5), "accent"),   # toe plate
+        box("left_leg", (12, 3, 3), (-2.0, 9.0, -12.5), "accent"),
+        box("right_leg", (3, 3, 3), (-8.0, 9.0, 9.5), "dark"),         # heel actuator
+        box("left_leg", (3, 3, 3), (3.1, 9.0, 9.5), "dark"),
     ]
 
 
@@ -110,10 +111,10 @@ TIER_EXTRA = {
         box("body", (4, 8, 4), (2.8, 0.0, 3.0), "dark"),
         box("body", (3, 2, 3), (-6.2, -2.4, 3.0), "glow"),
         box("body", (3, 2, 3), (3.2, -2.4, 3.0), "glow"),
-        box("right_leg", (6, 4, 6), (-5.4, 4.4, -3.4), "plate"),       # knee cap
-        box("left_leg", (6, 4, 6), (-0.6, 4.4, -3.4), "plate"),
-        box("right_leg", (2, 6, 2), (-7.2, 2.0, -1.0), "dark"),        # thigh hydraulics
-        box("left_leg", (2, 6, 2), (5.2, 2.0, -1.0), "dark"),
+        box("right_leg", (10, 6, 4), (-9.5, 3.0, -7.0), "plate"),      # knee cap front
+        box("left_leg", (10, 6, 4), (-0.5, 3.0, -7.0), "plate"),
+        box("right_leg", (3, 8, 3), (-12.0, 0.0, -1.5), "dark"),       # thigh hydraulics
+        box("left_leg", (3, 8, 3), (9.0, 0.0, -1.5), "dark"),
     ],
     "spider_mech": [
         box("head", (9, 3, 3), (-4.5, -2.6, -5.6), "dark"),            # fang housing
@@ -131,10 +132,10 @@ TIER_EXTRA = {
         box("body", (3, 3, 3), (3.6, 3.0, 2.6), "dark"),               # octo-arm mount R
         box("right_arm", (5, 5, 5), (-3.4, 8.0, -2.8), "accent"),      # claw gauntlet
         box("left_arm", (5, 5, 5), (-1.6, 8.0, -2.8), "accent"),
-        box("right_leg", (2, 6, 2), (-7.2, 1.6, -1.0), "dark"),        # leg hydraulics
-        box("left_leg", (2, 6, 2), (5.2, 1.6, -1.0), "dark"),
-        box("right_leg", (8, 2, 8), (-6.4, 7.6, -4.4), "accent"),      # wide stance plate
-        box("left_leg", (8, 2, 8), (-1.6, 7.6, -4.4), "accent"),
+        box("right_leg", (3, 8, 3), (-12.0, -0.4, -1.5), "dark"),      # leg hydraulics
+        box("left_leg", (3, 8, 3), (9.0, -0.4, -1.5), "dark"),
+        box("right_leg", (12, 3, 12), (-10.5, 6.5, -6.0), "accent"),   # ankle guard
+        box("left_leg", (12, 3, 12), (-1.5, 6.5, -6.0), "accent"),
     ],
 }
 
